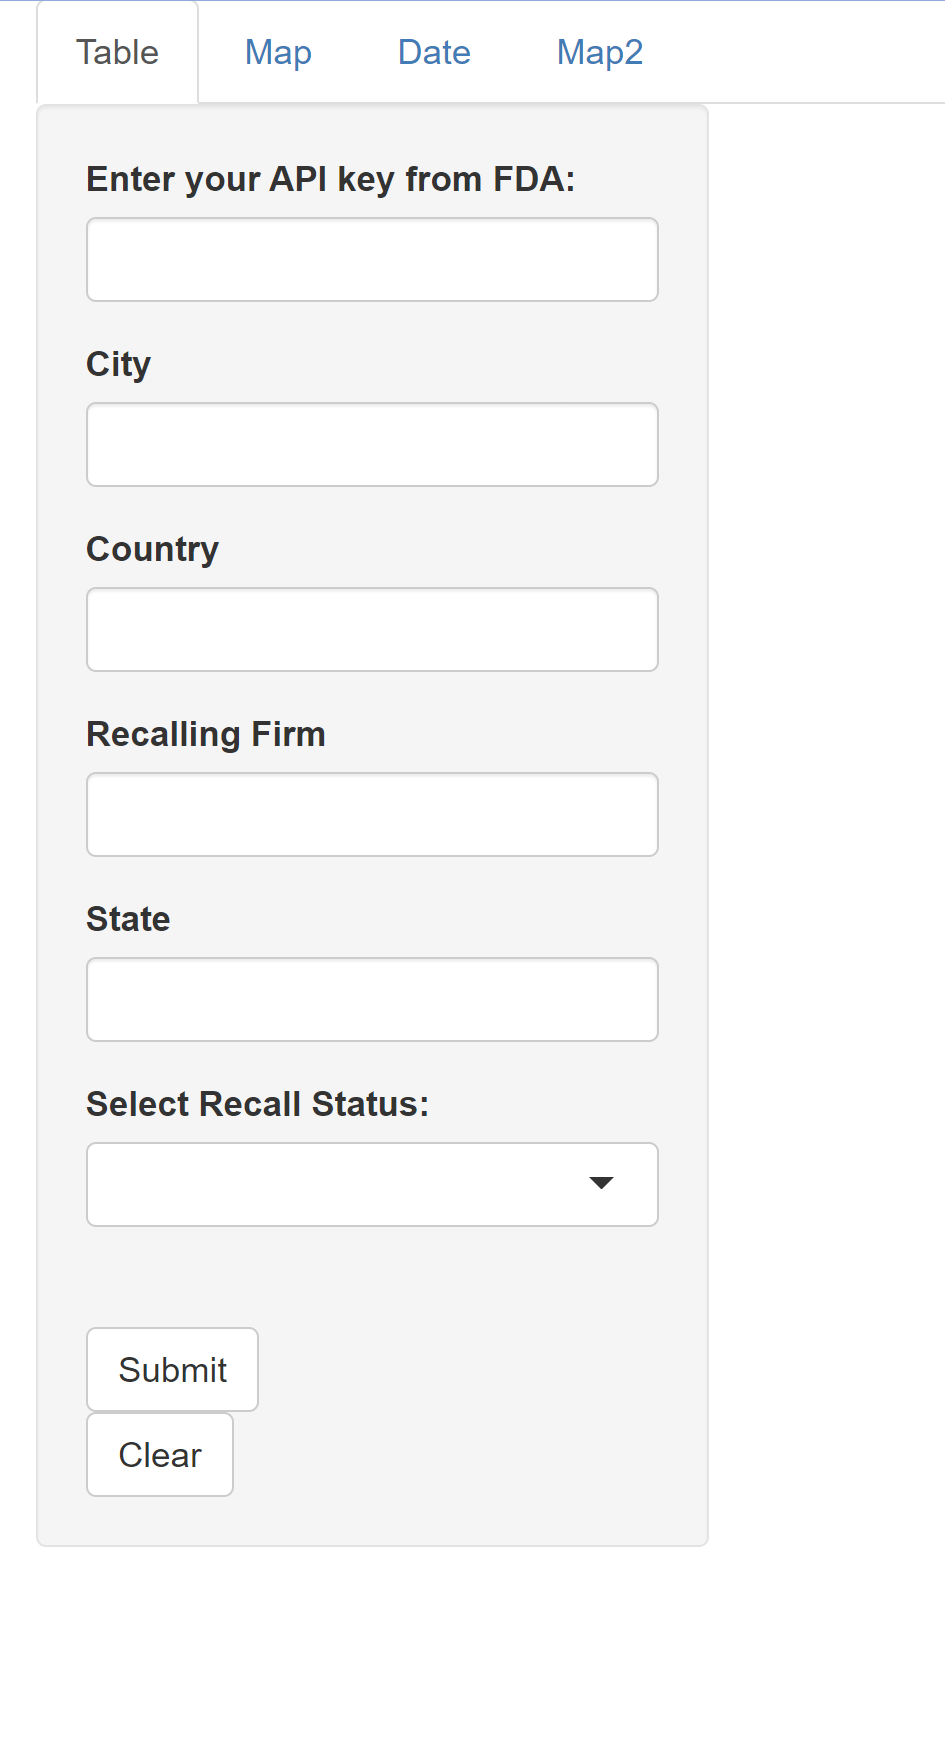
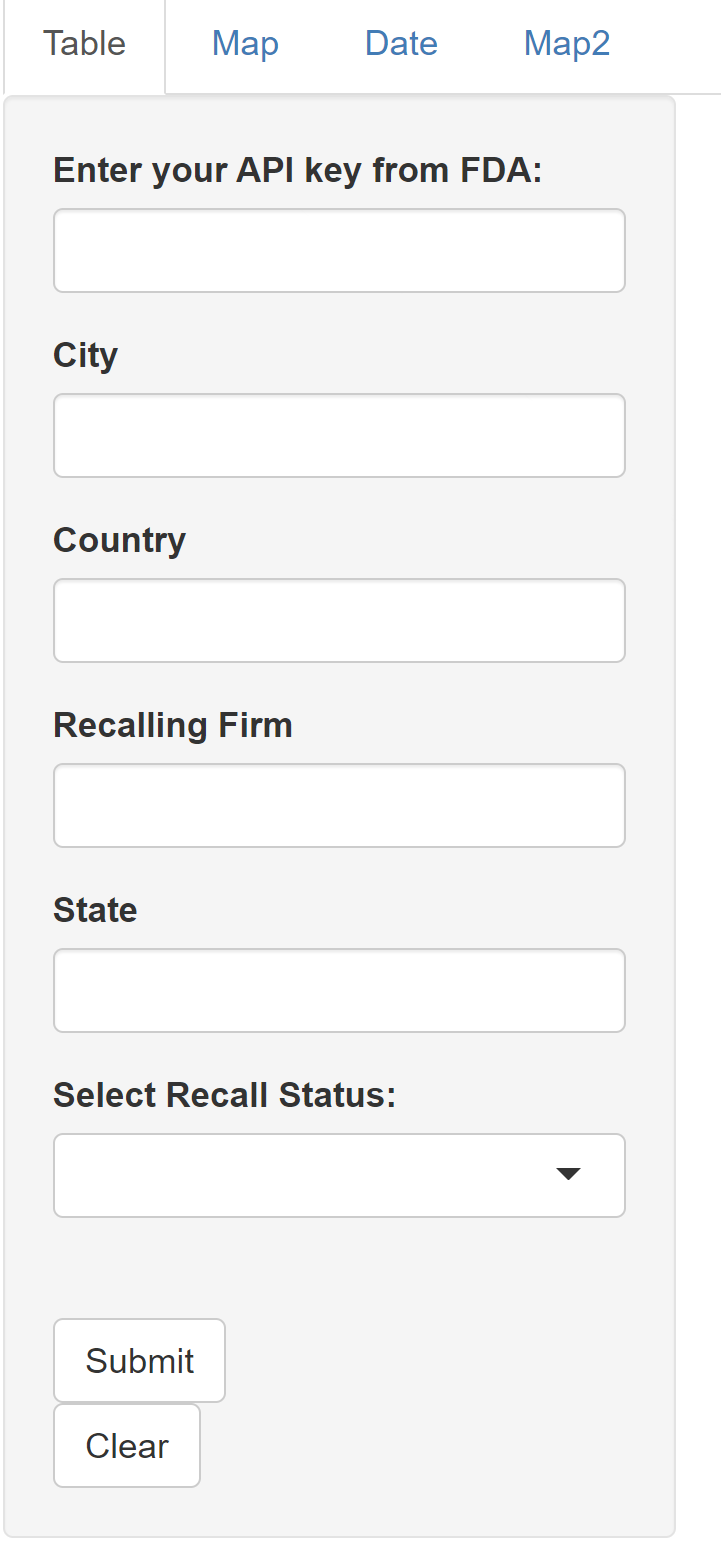
Deploying to gh-pages from @ loganjohnson0/foodRecall@fb1c566adb8930788710e23a044ecdffc6279808 🚀

diff --git a/articles/foodRecall.html b/articles/foodRecall.html
@@ -124,7 +124,7 @@ the outbreak occurred.</p>
 <span><span class="co"># location &lt;- foodRecall::recall_location(api_key = api_key, </span></span>
 <span><span class="co">#                                         limit = 1000, city = "Milwaukee", </span></span>
 <span><span class="co">#                                         state = "Wisconsin", </span></span>
-<span><span class="co">#                                         recalling_firm = "Garden-Fresh Foods, Inc." )</span></span></code></pre></div>
+<span><span class="co">#                                         recalling_firm = "Garden-Fresh Foods" )</span></span></code></pre></div>
 <div class="figure">
 <img src="Rplot02.png" alt="*An example of the tabular output of recalls from Garden Fresh Foods in Milwaukee using the recall_location function*" width="100%"><p class="caption">
 <em>An example of the tabular output of recalls from Garden Fresh Foods
@@ -203,7 +203,7 @@ of interest.</p>
 <p>This will open a graphical user interface that appears as
 follows:</p>
 <div class="figure">
-<img src="Rplot04.png" alt="*Example of shiny app user interface*" width="50%"><p class="caption">
+<img src="Rplot04.png" alt="*Example of shiny app user interface*" width="40%"><p class="caption">
 <em>Example of shiny app user interface</em>
 </p>
 </div>
@@ -211,7 +211,7 @@ follows:</p>
 Miami, the state as Florida, we end up with the following for the table
 tab:</p>
 <div class="figure">
-<img src="r_shinny_table.png" alt="*Example of shiny app tabular data for Miami, Florida*" width="100%"><p class="caption">
+<img src="r_shinny_table.png" alt="*Example of shiny app tabular data for Miami, Florida*" width="110%"><p class="caption">
 <em>Example of shiny app tabular data for Miami, Florida</em>
 </p>
 </div>
@@ -226,7 +226,7 @@ of choice, along with a product description and status of recalls, if
 that is desired. Below is an example of ongoing recalls since January
 1st, 2023.</p>
 <div class="figure">
-<img src="r_shinny_date.png" alt="*Current Ongoing Recalls initiating on January 1st, 2023*" width="100%"><p class="caption">
+<img src="r_shinny_date.png" alt="*Current Ongoing Recalls initiating on January 1st, 2023*" width="110%"><p class="caption">
 <em>Current Ongoing Recalls initiating on January 1st, 2023</em>
 </p>
 </div>
